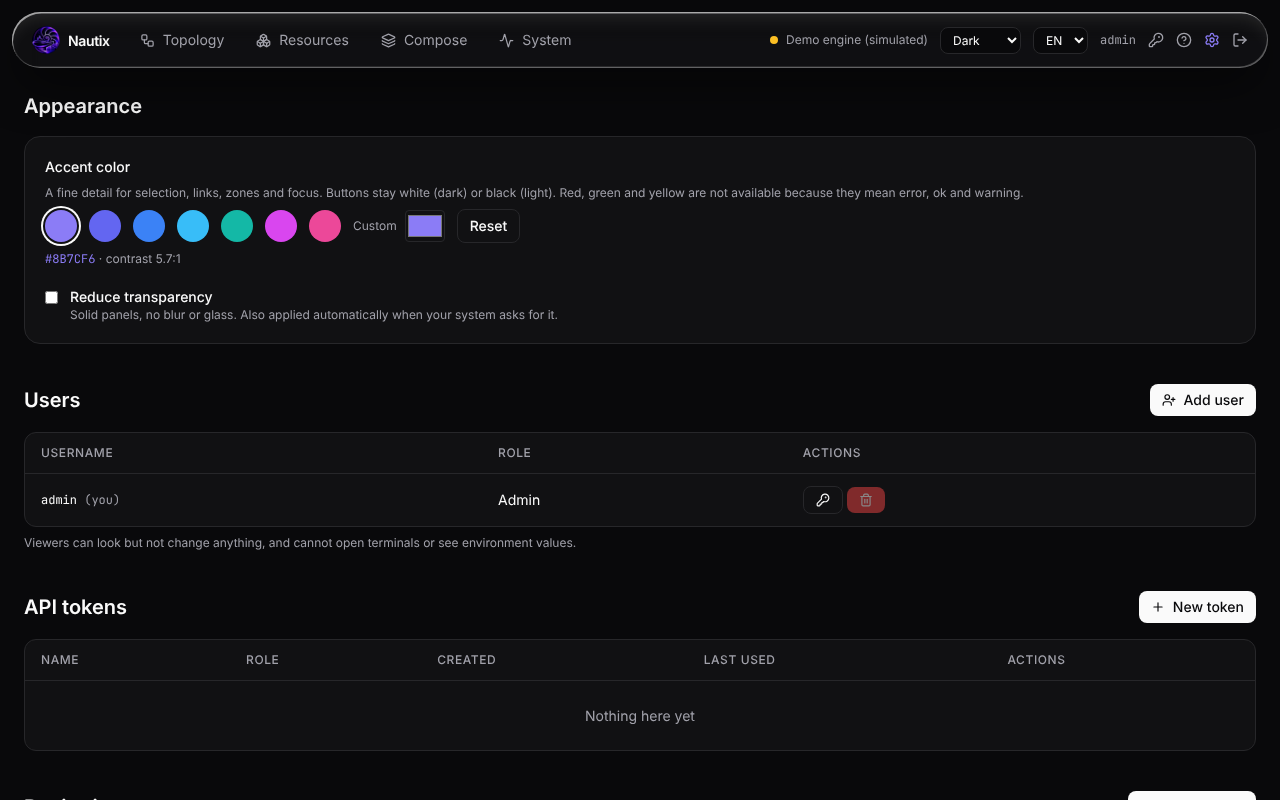
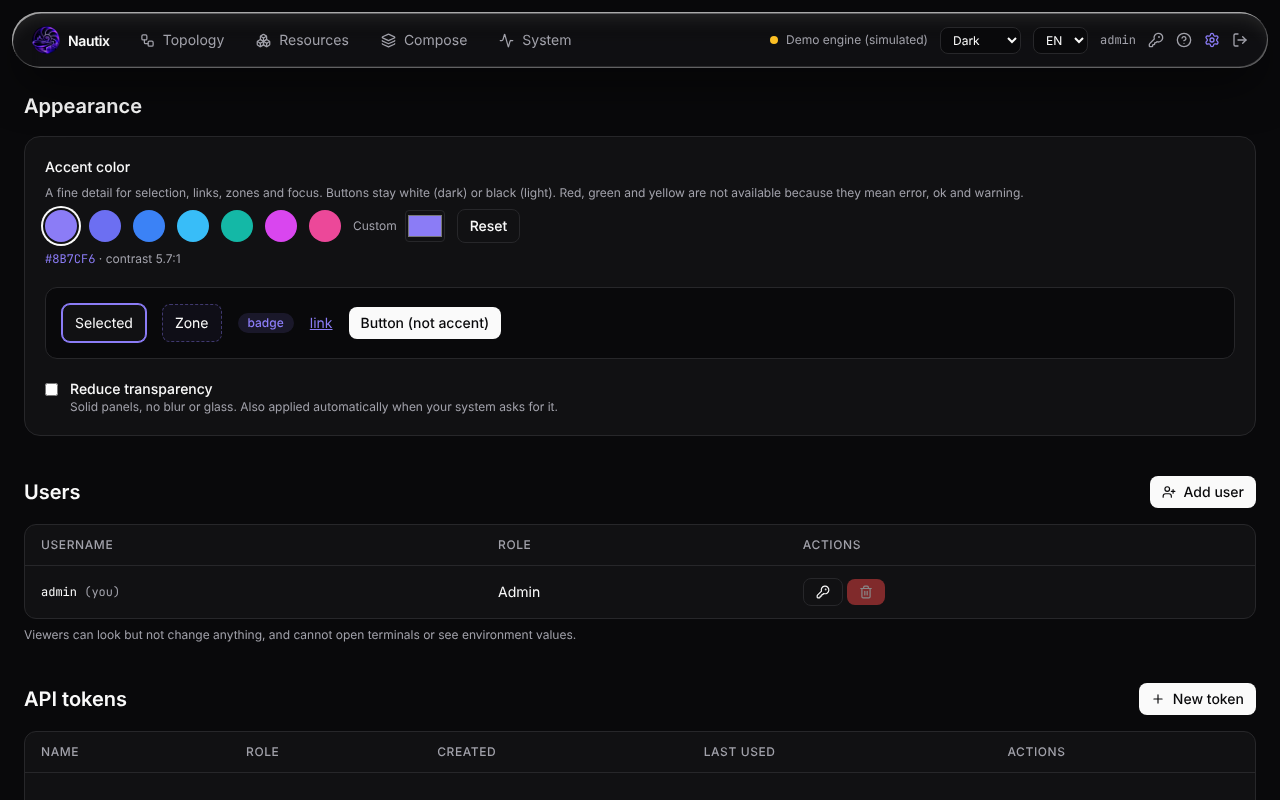
Accent: visible live preview in Appearance, accent-color for form controls, selection color, swatches show the adjusted color
Claude-Session: https://claude.ai/code/session_0164oxADUWrSQSEX3m98FUhV

diff --git a/apps/web/src/features/settings/settings-page.tsx b/apps/web/src/features/settings/settings-page.tsx
@@ -54,7 +54,7 @@ function AppearanceSection() {
                 aria-label={hex}
                 aria-pressed={hex === theme.accent}
                 onClick={() => theme.setAccent(hex)}
-                style={{ background: hex }}
+                style={{ background: resolveAccent(hex, resolved).accent }}
                 className={`h-8 w-8 rounded-full ring-offset-2 ring-offset-bg1 ${hex === theme.accent ? "ring-2 ring-fg" : ""}`}
               />
             ))}
@@ -78,6 +78,19 @@ function AppearanceSection() {
             {result.hueMoved && ` · ${t("appearance.hueMoved")}`}
             {result.adjusted && ` · ${t("appearance.adjusted")}`}
           </p>
+        </div>
+        <div className="flex flex-wrap items-center gap-4 rounded-xl border border-line bg-bg0 p-4">
+          <span className="rounded-lg border border-accent bg-bg1 px-3 py-2 text-sm shadow-[var(--nx-glow)]">
+            {t("appearance.previewSelected")}
+          </span>
+          <span className="rounded-lg border border-dashed border-[var(--nx-zone-line)] bg-[var(--nx-zone)] px-3 py-2 text-sm">
+            {t("appearance.previewZone")}
+          </span>
+          <span className="rounded-full bg-accent-soft px-2.5 py-0.5 text-xs font-medium text-accent">
+            {t("appearance.previewBadge")}
+          </span>
+          <span className="text-sm text-accent underline">{t("appearance.previewLink")}</span>
+          <Button variant="primary">{t("appearance.previewButton")}</Button>
         </div>
         <label className="flex items-start gap-3 text-sm">
           <input

diff --git a/apps/web/src/app/shell.tsx b/apps/web/src/app/shell.tsx
@@ -54,6 +54,9 @@ export function Shell() {
               className={`flex items-center gap-2 rounded-full px-3.5 py-1.5 text-sm transition-colors ${isActivePath(to, pathname) ? "bg-primary text-primary-fg" : "text-dim hover:text-fg"}`}
             >
               <Icon size={15} /> {t(key)}
+              {isActivePath(to, pathname) && (
+                <span className="h-1.5 w-1.5 rounded-full bg-accent" aria-hidden="true" />
+              )}
             </NavLink>
           ))}
         </nav>

diff --git a/apps/web/src/theme/theme.css b/apps/web/src/theme/theme.css
@@ -88,6 +88,12 @@ body {
   font-family: var(--font-sans);
   font-size: 14px;
 }
+:root {
+  accent-color: var(--nx-accent);
+}
+::selection {
+  background: var(--nx-accent-soft);
+}
 :focus-visible {
   outline: 2px solid var(--nx-accent);
   outline-offset: 2px;
